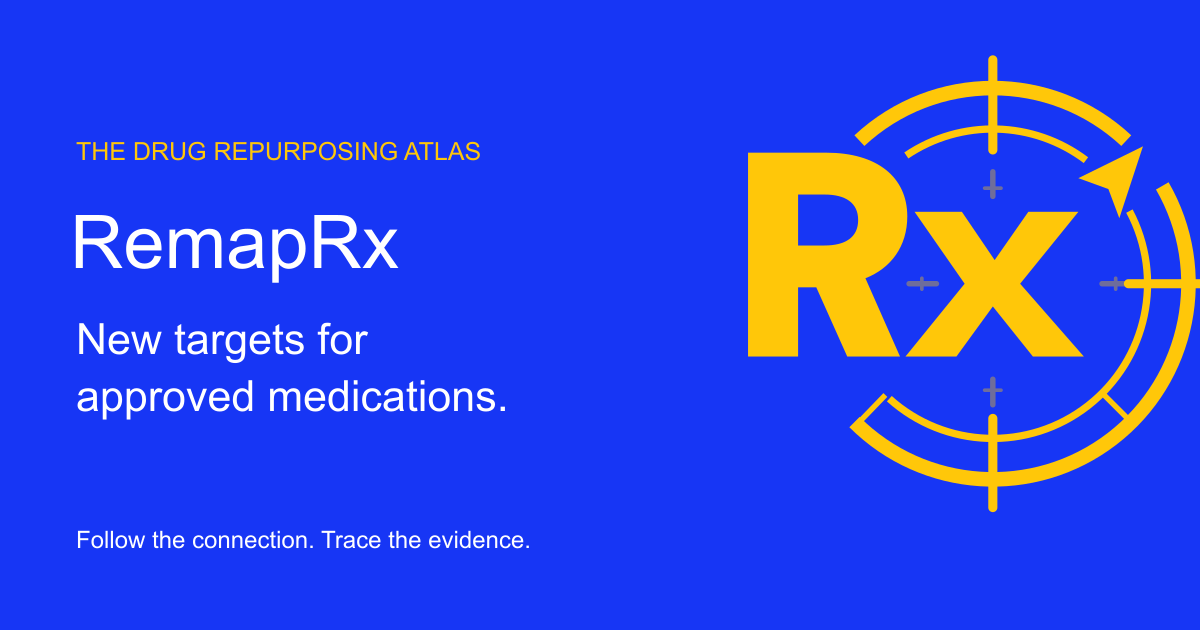
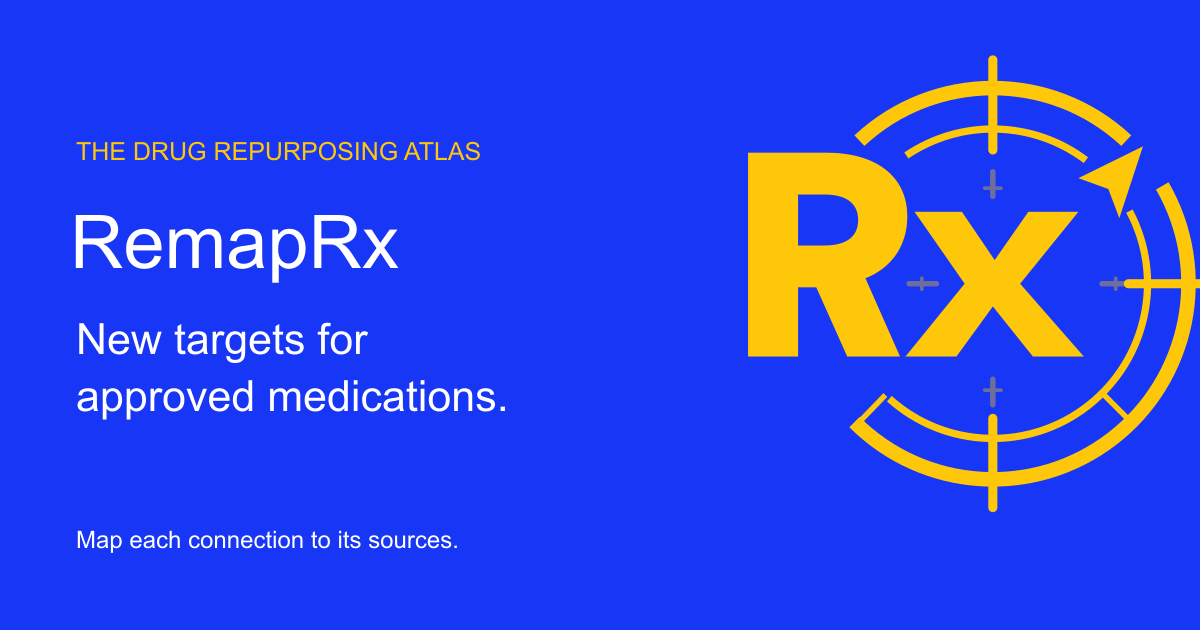
Update Site source

Changed region(s): [[0.0617, 0.8444, 0.4317, 0.8746]]

diff --git a/lib/theme/config.tsx b/lib/theme/config.tsx
@@ -3,4 +3,4 @@ import {topicNavigation} from '@/lib/theme/navigation';
 import {guideProducts} from '@/lib/guide-catalogue';
 import type {ThemeConfig,ThemeHomeContent} from '@/components/shared-theme/types';
 export const secondLookTheme:ThemeConfig={schemaVersion:'1.0.0',mainId:'main',identity:{name:'RemapRx',homeHref:'/',logo:{src:'/brand/remaprx-wordmark.svg',alt:'RemapRx',width:260,height:64},footerLogo:{src:'/brand/remaprx-wordmark-reversed.svg',alt:'RemapRx',width:260,height:64}},palette:{main:'#1736F5',mainDark:'#1027B8',mainTint:'#EFF2FF',accent:'#FFC709',pale:'#EFF2FF',ink:'#17204D',muted:'#5B6175',link:'#1736F5'},navigation:[...topicNavigation,{label:'Research',href:'/research'},{label:'Guides',href:'/guides'}],search:{action:'/search',param:'q',label:'Search the evidence library',placeholder:'Search a drug, condition or question'},accountLink:{label:'My research',href:'/account'},primaryAction:{label:'Explore outcomes',href:'/outcomes'},footer:{columns:[{title:'Explore',links:[{label:'Drugs',href:'/drugs'},{label:'Conditions',href:'/conditions'},{label:'Outcomes',href:'/outcomes'},{label:'Research',href:'/research'}]},{title:'Learn',links:[{label:'Drug repurposing',href:'/drug-repurposing'},{label:'Reader questions',href:'/questions'},{label:'Glossary',href:'/glossary'},{label:'Guides',href:'/guides'},{label:'Methods',href:'/methods'}]},{title:'RemapRx',links:[{label:'About',href:'/about'},{label:'Editorial standards',href:'/editorial'},{label:'Corrections',href:'/corrections'},{label:'My research',href:'/account'}]}],legal:[{label:'Privacy',href:'/privacy'},{label:'Terms',href:'/terms'},{label:'Educational disclaimer',href:'/disclaimer'}],copyright:'© 2026 RemapRx',note:'The drug repurposing atlas. New targets for approved medications. Research education, not personal medical advice.'}};
-export const secondLookHome:ThemeHomeContent={hero:{eyebrow:'The drug repurposing atlas',title:'New targets for approved medications.',intro:'Explore how existing medications are being studied for new uses. Follow the proposed mechanisms, examine the findings, and trace each connection to its sources.',illustration:<RemappingMap/>,quickLinksLabel:'Start with',quickLinks:[{label:'Metformin',href:'/drugs/metformin'},{label:'Long COVID',href:'/conditions/long-covid'},{label:'Itraconazole',href:'/drugs/itraconazole'}],note:{mark:'Rx',title:'Approval is specific to a use.',text:'Approval for one use does not establish safety or effectiveness for another.',link:{label:'Understand drug repurposing',href:'/drug-repurposing'}}},principles:['Source-linked findings','Limitations in view','Independent review pending'],collectionHeading:'Find your starting point',collectionIntro:'Start with a medication, a condition, or an outcome. Follow the research connecting them.',collections:[{number:'01',eyebrow:'Start with a drug',title:'New uses, distinct questions',copy:'Follow a generic drug across its proposed uses without borrowing a conclusion from another condition.',href:'/drugs',links:[{label:'Metformin',href:'/drugs/metformin'},{label:'Itraconazole',href:'/drugs/itraconazole'},{label:'Nirmatrelvir with ritonavir',href:'/drugs/nirmatrelvir'}]},{number:'02',eyebrow:'Start with a condition',title:'Keep the clinical context',copy:'Examine the populations, disease stages and outcomes behind a repurposing question.',href:'/conditions',links:[{label:'Long COVID',href:'/conditions/long-covid'},{label:'Browse all conditions',href:'/conditions'},{label:'Compare questions',href:'/comparisons'}]},{number:'03',eyebrow:'Start with an outcome',title:'Inspect the exact finding',copy:'Filter the same evidence records and keep magnitude, uncertainty and clinical meaning separate.',href:'/outcomes',links:[{label:'Explore recorded outcomes',href:'/outcomes'},{label:'Community questions',href:'/questions'},{label:'Reading the evidence',href:'/guides/evidence-reading'}]}],method:{title:'Every connection leads back to evidence.',intro:'A positive result, a null finding and a missing source call for different explanations. Our method keeps that distinction visible.',link:{label:'How we read evidence',href:'/methods'},steps:[{title:'Define the question',text:'Name the drug, condition, population, comparator and outcome.'},{title:'Inspect the original source',text:'Keep each reported number with its denominator, timepoint and source locator.'},{title:'Read the limits',text:'Check access gaps, correction holds, study design and the actual state of appraisal.'},{title:'Keep the review accountable',text:'Consider how study limitations affect confidence in the finding.'}]},research:{title:'A closer look at the research',link:{label:'Visit the source library',href:'/research'},items:[{title:'Metformin and long COVID prevention',kind:'Question-led evidence guide',href:'/answers/metformin-prevention'},{title:'What about established long COVID?',kind:'A distinct treatment question',href:'/answers/metformin-treatment'},{title:'Itraconazole and cancer research',kind:'Biological rationale and clinical evidence',href:'/drugs/itraconazole'}]},guides:{label:'The guide library',title:'A companion for your next close read.',text:'Preview the first evidence-reading draft and explore the condition guides in development. Prices are proposed; sales have not launched.',link:{label:'Explore guides and pricing',href:'/guides'},items:guideProducts.filter(p=>['SL-GUIDE-READING','SL-GUIDE-LONG-COVID','SL-GUIDE-BREAST-CANCER'].includes(p.id)).map(p=>({title:p.topic,description:p.description,href:'/guides/products/'+p.slug,status:p.statusLabel}))},join:{title:'Build a library you can return to.',text:'Save sources and private notes with your account. Full released reviews are free with an account.',content:<a className="button" href="/account">Open my research</a>}};
+export const secondLookHome:ThemeHomeContent={hero:{eyebrow:'The drug repurposing atlas',title:'New targets for approved medications.',intro:'Explore how existing medications are being studied for new uses. Follow the proposed mechanisms, examine the findings, and map each connection to its sources.',illustration:<RemappingMap/>,quickLinksLabel:'Start with',quickLinks:[{label:'Metformin',href:'/drugs/metformin'},{label:'Long COVID',href:'/conditions/long-covid'},{label:'Itraconazole',href:'/drugs/itraconazole'}],note:{mark:'Rx',title:'Approval is specific to a use.',text:'Approval for one use does not establish safety or effectiveness for another.',link:{label:'Understand drug repurposing',href:'/drug-repurposing'}}},principles:['Source-linked findings','Limitations in view','Independent review pending'],collectionHeading:'Find your starting point',collectionIntro:'Start with a medication, a condition, or an outcome. Follow the research connecting them.',collections:[{number:'01',eyebrow:'Start with a drug',title:'New uses, distinct questions',copy:'Follow a generic drug across its proposed uses without borrowing a conclusion from another condition.',href:'/drugs',links:[{label:'Metformin',href:'/drugs/metformin'},{label:'Itraconazole',href:'/drugs/itraconazole'},{label:'Nirmatrelvir with ritonavir',href:'/drugs/nirmatrelvir'}]},{number:'02',eyebrow:'Start with a condition',title:'Keep the clinical context',copy:'Examine the populations, disease stages and outcomes behind a repurposing question.',href:'/conditions',links:[{label:'Long COVID',href:'/conditions/long-covid'},{label:'Browse all conditions',href:'/conditions'},{label:'Compare questions',href:'/comparisons'}]},{number:'03',eyebrow:'Start with an outcome',title:'Inspect the exact finding',copy:'Filter the same evidence records and keep magnitude, uncertainty and clinical meaning separate.',href:'/outcomes',links:[{label:'Explore recorded outcomes',href:'/outcomes'},{label:'Community questions',href:'/questions'},{label:'Reading the evidence',href:'/guides/evidence-reading'}]}],method:{title:'Every connection leads back to evidence.',intro:'A positive result, a null finding and a missing source call for different explanations. Our method keeps that distinction visible.',link:{label:'How we read evidence',href:'/methods'},steps:[{title:'Define the question',text:'Name the drug, condition, population, comparator and outcome.'},{title:'Inspect the original source',text:'Keep each reported number with its denominator, timepoint and source locator.'},{title:'Read the limits',text:'Check access gaps, correction holds, study design and the actual state of appraisal.'},{title:'Keep the review accountable',text:'Consider how study limitations affect confidence in the finding.'}]},research:{title:'A closer look at the research',link:{label:'Visit the source library',href:'/research'},items:[{title:'Metformin and long COVID prevention',kind:'Question-led evidence guide',href:'/answers/metformin-prevention'},{title:'What about established long COVID?',kind:'A distinct treatment question',href:'/answers/metformin-treatment'},{title:'Itraconazole and cancer research',kind:'Biological rationale and clinical evidence',href:'/drugs/itraconazole'}]},guides:{label:'The guide library',title:'A companion for your next close read.',text:'Preview the first evidence-reading draft and explore the condition guides in development. Prices are proposed; sales have not launched.',link:{label:'Explore guides and pricing',href:'/guides'},items:guideProducts.filter(p=>['SL-GUIDE-READING','SL-GUIDE-LONG-COVID','SL-GUIDE-BREAST-CANCER'].includes(p.id)).map(p=>({title:p.topic,description:p.description,href:'/guides/products/'+p.slug,status:p.statusLabel}))},join:{title:'Build a library you can return to.',text:'Save sources and private notes with your account. Full released reviews are free with an account.',content:<a className="button" href="/account">Open my research</a>}};

diff --git a/app/[...path]/page.tsx b/app/[...path]/page.tsx
@@ -27,7 +27,7 @@ const titles:Record<string,string>={outcomes:'Explore research outcomes',search:
 const policies:Record<string,{title:string;text:string}[]>={
  methods:[{title:'The question comes first',text:'We organize evidence around a drug, exact indication, population, formulation and route, comparator, and outcome. A report about prevention cannot settle a treatment question by itself. Reader discussions help us discover questions; they do not establish whether a drug works.'},{title:'Coverage and limitations',text:'This collection describes selected sources and is not a systematic review or clinical guideline. A missing full report limits what can be assessed. Each article gives its source dates and distinguishes the evidence available from unresolved questions.'},{title:'From source to sentence',text:'Reports retain separate paper and study-family identities. Guide statements link to their underlying sources and review previews. Numeric results are checked with their denominator, endpoint and timepoint. Corrections and retractions are tracked; unresolved notices keep affected conclusions on hold.'},{title:'How the evidence is graded',text:'We use the PepsAnon-style High, Moderate and Low editorial scale for each specific drug, outcome, population, comparison and timepoint. High means strong direct human evidence supports the stated finding. Moderate means useful direct evidence remains limited in important ways. Low means sparse, indirect or substantially limited evidence leaves considerable uncertainty. A strong negative finding can receive High; a favorable result does not automatically earn a higher grade.'},{title:'Why an outcome receives its grade',text:'Each assessment considers study methods and potential bias, relevance to the exact question, precision, consistency across independent studies, and source access or integrity. Select a grade in the Evidence table to open its source-cited rationale. Small or uncontrolled studies, exploratory outcomes, wide intervals and incomplete reports reduce confidence where they matter. Computer or laboratory findings cannot establish human treatment benefit. An unresolved correction remains visible and affected efficacy conclusions stay on hold even when their limited evidential strength is rated Low.'},{title:'Assessment scope and review status',text:'These are AI-assisted selected-source editorial assessments, following PepsAnon’s three-level approach; they are not formal GRADE ratings, a systematic review, independent clinical peer review or treatment recommendations. The grade addresses the finding and scope shown in the sidebar, independently of effect size and overall safety. Each assessment carries its method version, date and cited rationale. Changes to the source evidence require reassessment before an updated grade can be published.'},{title:'Scope and unanswered questions',text:'Questions not yet covered remain in the question library. No source found in a bounded search does not mean no study exists. We retain negative, inconclusive and indirect findings, and distinguish them from an absence of evidence.'}],
  editorial:[{title:'Accountability',text:'Karen Pendergrass is the assigned author for RemapRx. Independent scientific review remains incomplete. Authorship does not imply that a clinical claim has been validated.'},{title:'Corrections',text:'Signed-in readers can submit a source-linked correction. Reports are stored privately for editorial review. Material corrections reopen the affected claim and page; previously accepted versions remain in the project history.'},{title:'Financial independence',text:'Drug sales, affiliate placement and paid endorsements are outside this pilot. Proposed educational products do not change evidence conclusions. Commerce and membership have not launched.'}],
- about:[{title:'The drug repurposing atlas',text:'RemapRx maps connections between medications, investigated uses, proposed mechanisms and research findings. Explore each question, examine the findings and limitations, and trace the evidence to its original sources. It is not affiliated with Examine, PepsAnon, or the institutions that published the studies.'},{title:'People and release status',text:'Karen Pendergrass is the author. This collection uses AI assistance and has not completed independent scientific or clinical review. Evidence limitations and source corrections are disclosed with the affected findings.'}],
+ about:[{title:'The drug repurposing atlas',text:'RemapRx maps connections between medications, investigated uses, proposed mechanisms and research findings. Explore each question, examine the findings and limitations, and map each connection to its original sources. It is not affiliated with Examine, PepsAnon, or the institutions that published the studies.'},{title:'People and release status',text:'Karen Pendergrass is the author. This collection uses AI assistance and has not completed independent scientific or clinical review. Evidence limitations and source corrections are disclosed with the affected findings.'}],
  privacy:[{title:'Your saved research',text:'Sign-in is managed by Sites using ChatGPT. This site uses the site-scoped user identifier to store saved items, private notes, corrections and a minimal private reader profile. Role choices help describe research use; they do not verify professional credentials, change conclusions or grant editorial permissions. Prefer not to say completes intake without a role or marketing consent. Notes are not included in public pages or public search. Do not enter medical records, identifying patient information or other sensitive health details.'},{title:'Control and retention',text:'Use Saved research to export your library or remove each item and its note. Saved records remain until removed. Reader profile settings allow you to edit, export or delete your own intake data; deleting it requires intake again before released full-review access. Submitted corrections are retained in the editorial record. This pilot does not collect advertising profiles or send newsletters. Hosting and sign-in providers operate their own services under their applicable terms.'},{title:'Before public launch',text:'The operating entity, support contact, jurisdiction-specific privacy obligations and retention policy must be finalized before public registration or paid services launch. This private preview is not a completed public-service privacy assessment.'}],
  terms:[{title:'Research, not a treatment service',text:'The site is an educational research pilot. It does not diagnose conditions, prescribe medicines or replace professional care. Access to a paper or to this site does not grant rights to redistribute copyrighted source files.'},{title:'No commercial contract yet',text:'No subscriptions or paid guide sales are enabled. Proposed prices are research hypotheses. Purchase terms, taxes, refund policy, merchant and customer support must be finalized before commerce launches.'}],
  disclaimer:[

diff --git a/app/layout.tsx b/app/layout.tsx
@@ -17,8 +17,8 @@ export const metadata: Metadata = {
   title: {default: "RemapRx — The drug repurposing atlas", template: "%s | RemapRx"},
   description: "New targets for approved medications. Explore investigated uses, proposed mechanisms and source-linked findings in the drug repurposing atlas.",
   robots: {index: false, follow: false},
-  openGraph: {type:"website", siteName:"RemapRx", title:"RemapRx — The drug repurposing atlas", description:"New targets for approved medications. Follow the connections and trace the evidence.", images:[{url:"/brand/remaprx-social.png",width:1200,height:630,alt:"RemapRx: New targets for approved medications."}]},
-  twitter: {card:"summary_large_image", title:"RemapRx — The drug repurposing atlas", description:"New targets for approved medications. Follow the connections and trace the evidence.", images:["/brand/remaprx-social.png"]},
+  openGraph: {type:"website", siteName:"RemapRx", title:"RemapRx — The drug repurposing atlas", description:"New targets for approved medications. Map each connection to its sources.", images:[{url:"/brand/remaprx-social.png",width:1200,height:630,alt:"RemapRx: New targets for approved medications."}]},
+  twitter: {card:"summary_large_image", title:"RemapRx — The drug repurposing atlas", description:"New targets for approved medications. Map each connection to its sources.", images:["/brand/remaprx-social.png"]},
   icons: {
     icon: [{url: "/favicon.svg?v=remaprx-map-1", type: "image/svg+xml"}, {url: "/favicon.ico?v=remaprx-map-1", sizes: "16x16 32x32 48x48", type: "image/x-icon"}],
     shortcut: "/favicon.ico?v=remaprx-map-1",

diff --git a/docs/REMAPRX-IDENTITY.md b/docs/REMAPRX-IDENTITY.md
@@ -10,7 +10,7 @@ Homepage copy:
 
 - Eyebrow: “The drug repurposing atlas”
 - Headline: “New targets for approved medications.”
-- Supporting copy: “Explore how existing medications are being studied for new uses. Follow the proposed mechanisms, examine the findings, and trace each connection to its sources.”
+- Supporting copy: “Explore how existing medications are being studied for new uses. Follow the proposed mechanisms, examine the findings, and map each connection to its sources.”
 
 ## Implementation
 
@@ -35,3 +35,22 @@ Public Sites audience, D1/R2 bindings, account/access behavior, noindex/robots s
 Completed before publication: approved-symbol geometry preserved; SVG/ICO validation; native 16/32-pixel samples inspected on light and dark backgrounds; outlined header logo inspected; content, reader-identity/source closure, article navigation, evidence rendering/grades and TypeScript checks pass. React review found no added hooks, data requests or effect listeners; static map components remain top-level, decorative SVGs are hidden from assistive technology, HTML labels provide meaning, and link names remain accessible.
 
 Browser: 390-pixel layout has no horizontal overflow; artwork stays within the figure. Mobile menu opens with Enter and closes with Escape, restoring focus to its trigger. Homepage search for `metformin` navigates to `/search?q=metformin` and displays 37 matching items. Desktop (1280 and 1440 pixels), tablet (768 pixels) and mobile (390 pixels) were visually inspected, with no horizontal overflow. The complete figure and approval note remain in the page flow; desktop uses two columns and tablet/mobile stack. Desktop Drugs navigation opens with Enter and closes with Escape, restoring trigger focus. Search returned 37 matching items. Existing citation/navigation/all-profile checks, wiki-link validation and production build passed. Final packaging rebuild, built public-payload check and exact publication receipts follow after completion.
+
+
+### Publication receipt — October 12, 2026
+
[1 lines of base64/hex data omitted]
+
+The final production rebuild and 30 built public-payload boundary checks passed. Live verification passed seven representative pages and seven identity assets, including byte-for-byte SVG/ICO/touch-icon/wordmark comparisons, new category copy and absence of current Second Look branding. Live robots/noindex behavior is preserved. The live browser confirms the new title, logo, headline and complete mapping hero at 1440 pixels with no horizontal overflow. Screenshots and machine-readable local/live verification receipts are in the parent workspace `artifacts/remaprx-identity/`.
+
+Bounded code/assets were applied to the canonical `second-look-navigation` working tree after a clean patch check; concurrent edits were preserved, documentation was appended and marketing hashes were recomputed locally. This completes the requested identity/homepage release. The earlier source-linked mechanism/preliminary-evidence work remains separate pending work.
+
+
+Local integration note: the broad TypeScript command in the dirty canonical working tree also scans preexisting copied source files under `research/batches/RRX-INGEST-001/app-inputs/`, whose adjacent modules are absent. It reports missing-module/implicit-any diagnostics in those handoff snapshots. These snapshot files were not included in the published checkout, whose full TypeScript check passed. No research snapshot or compiler configuration was edited to silence them. A separate application-only diagnostic pass excludes those copied handoff source roots; its result is recorded below.
+
+Application-only integration diagnostics passed with 12 copied research handoff source files excluded; the published checkout passed the normal full TypeScript command. The live homepage browser reported no captured console errors or warnings. Both task-owned local preview servers were stopped after publication.
+
+
+### Brand vocabulary correction — October 12, 2026
+
+Owner correction: use “and map each connection to its sources” in the hero. Map, mapping and remap are the preferred vocabulary for current brand copy. This supersedes the earlier “trace each connection” hero wording. The About description, Open Graph/Twitter descriptions and default social artwork use the same mapping language. Scientific source-traceability terms and historical records retain their precise meanings. This is a copy-only correction; publication and verification are recorded below after completion.

diff --git a/docs/RULE-CHANGELOG.md b/docs/RULE-CHANGELOG.md
@@ -118,3 +118,13 @@ Implementation begins from live Sites version 32, source `7f6138d5297a0fdc991978
 Source: owner's explicit approval of mapping round 4, instruction to apply its logo/favicon and mapping visual to the hero, and reminder to replace Second Look and the old “A familiar drug. A different question.” copy and go live. Scope: shared identity, current reader-facing branding/metadata, homepage atlas claim and generic mapping illustration. Supersedes preview-only status and the simplified mark. Production code/assets and contract are in `REMAPRX-IDENTITY.md`; earlier concepts are preserved.
 
 Implemented against live version 33 in an isolated checkout to preserve concurrent published work. The approved icon and wordmarks, SVG/ICO favicon, touch icon and default social image use the adopted blue/yellow palette. Readable HTML mapping labels, target geometry and solid/dashed routes retain the category visual. No evidence records, review approvals, clinical grades, audience or indexing gates change. Relevant checks, browser review, source integration and exact publication receipt are recorded in `REMAPRX-IDENTITY.md`. Earlier mechanism work is not included or declared complete. No upstream/installed/exported One Match Rule synchronization is claimed.
+
+
+### SL-RULE-ATLAS-IDENTITY publication receipt
+
+Sites version 34 published from `a4dc664fd2644d9c4d46d6846d9a546bdf4b8c4c`; deployment `appgdep_6acce58359408191a60c223d56d142db` succeeded October 12, 2026 at 13:50:33 UTC. https://remaprx.com now serves the approved mapping logo/favicon, atlas homepage and reader-facing RemapRx identity. Production build, 30 built public-payload checks, governance, TypeScript, content/evidence/navigation checks and responsive browser checks passed. Live verification covered seven pages and seven byte-identical identity assets. The original audience, noindex/robots, scientific and access/commercial gates are preserved. Exact archive and verification records: `REMAPRX-IDENTITY.md`. Earlier mechanism work remains pending separately.
+
+
+## 2026-10-12 — SL-RULE-ATLAS-MAP-COPY: mapping vocabulary
+
+Source: owner explicitly corrected the hero clause to “and map each connection to its sources” and emphasized map, mapping and remap. Scope: current hero, About and matching metadata/social brand copy. Supersedes the trace wording in the identity contract; preserve precise scientific provenance terminology and historical receipts. Implemented as bounded copy updates with the same approved artwork and existing release gates. Contract and verification/publication status: `REMAPRX-IDENTITY.md`. No ingestion or upstream One Match Rule changes are required.
